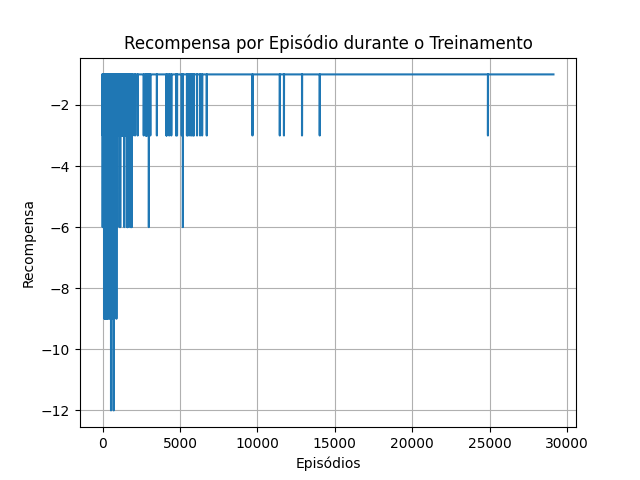
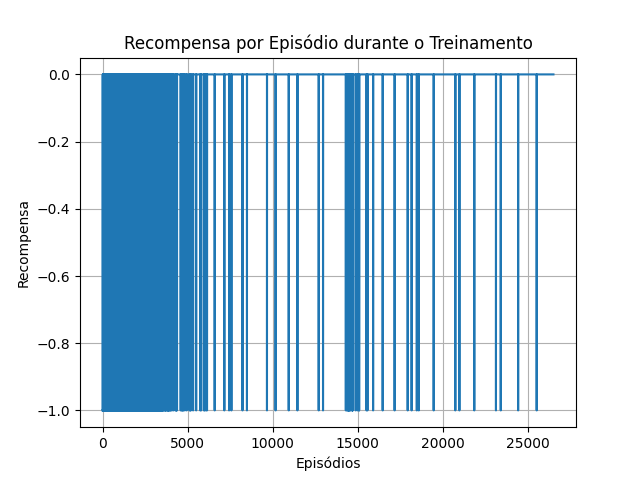
feat: modularizing env

diff --git a/truco/env.py b/truco/env.py
@@ -7,14 +7,19 @@ from truco.rules import shuffle_and_deal, get_round_winner, get_card_strength, g
 
 class TrucoEnv(gym.Env):
 
-    def __init__(self):
+    def __init__(self, mode='train'):
         super().__init__()
 
-        
-        self.observation_space = spaces.Box(low=0, high=20, shape=(8,), dtype=np.int32)
+        self.mode = mode
+        self.observation_space = spaces.Box(low=0, high=20, shape=(10,), dtype=np.int32)
         
         self.agent1_matches_won = 0
         self.agent2_matches_won = 0
+
+        self.agent1_rounds = 0
+        self.agent2_rounds = 0
+        self.agent1_score = 0
+        self.agent2_score = 0
 
         # Define the observation and action spaces: 0, 1, 2: play card; 3 = truca, 4 = pass, 5 = raise
         self.action_space = spaces.Discrete(6)
@@ -36,89 +41,69 @@ class TrucoEnv(gym.Env):
         self.truco_value = 1
         self.truco_called = False
         self.done = False
-        self.agent1_score = 0
-        self.agent2_score = 0
         self.draw = False
-        self.agent1_rounds = 0
-        self.agent2_rounds = 0
+        self.last_card_agent1 = None
+        self.last_card_agent2 = None
 
-        return self._get_observation(), {}
+        return self._get_observation(), {"round": self.rodada, "manilha": self.manilha, "your cards": self.agent2_cards, "your score": self.agent1_score, "oponent score": self.agent2_score,
+            "trucado": self.truco_called, "truco value": self.truco_value, "cards played": self.cards_played, "oponent cards played": self.oponent_cards_played, "agent_1_matches": self.agent1_matches_won, "agent_2_matches": self.agent2_matches_won,
+            "agent_1_rounds": self.agent1_rounds, "agent_2_rounds": self.agent2_rounds, "bot_cards": self.agent1_cards}
 
 
-    def step(self, action):
+    def step(self, action, player_turn=None, second_action=None):
         reward = 0
         terminated = False
         truncated = False
         info = {}
+ 
+        if self.rodada > 3:
+            terminated = True
+            self.done = True
 
-        if action == 3 and not self.truco_called:
-            self.truco_called = True
-            self.truco_value = 3
-        elif action == 4 and not self.truco_called:
+        if self.done:
+            return self._get_observation(), reward, True, truncated, info
+
+        if action == 3:
+            if self.truco_called:
+                self.truco_called = True
+                self.truco_value = 3
+            else:
+                reward = -self.truco_value
+                terminated = True
+                self.done = True
+        elif action == 4:
             reward = -self.truco_value
             terminated = True
             self.done = True
             return self._get_observation(), reward, terminated, truncated, info
-        elif action == 5 and self.truco_called and self.truco_value != 12:
-            self.truco_called = True
-            self.truco_value += 3
-        else:
-            carta_idx = action
-            if carta_idx >= len(self.agent1_cards):
-                # invalid action
-                reward = -self.truco_value
-                terminated = True
-                self.done = True
-                return self._get_observation(), reward, terminated, truncated, info
-            
-            agent1_card = self.agent1_cards.pop(carta_idx)
-            agent2_card = get_strongest_card(self.cards_strength, self.agent2_cards)
-            
-            self.cards_played.append(agent1_card)
-            self.oponent_cards_played.append(agent2_card)
-            
-            winner = get_round_winner(agent1_card, agent2_card, self.cards_strength)
-
-            if winner == 1 and not self.draw:
-                self.agent1_score += 1
-            elif winner == 2 and not self.draw:
-                self.agent2_score += 1
+        elif action == 5:
+            if self.truco_called and self.truco_value != 12:
+                self.truco_called = True
+                self.truco_value += 3
             else:
-                self.draw = True
-
-            self.rodada += 1
-
-            if self.agent1_score == 2:
-                reward = self.truco_value
-                self.agent1_rounds += 1
-                return self._get_observation(), reward, terminated, truncated, info
-            elif self.agent2_score == 2:
                 reward = -self.truco_value
-                self.agent2_rounds += 1
-                return self._get_observation(), reward, terminated, truncated, info
-            elif winner == 1 and self.draw:
-                self.agent1_rounds += 1
-                reward = self.truco_value
-                self.draw = False
-                return self._get_observation(), reward, terminated, truncated, info
-            elif winner == 2 and self.draw:
-                reward = -self.truco_value
-                self.draw = False
-                self.agent2_rounds += 1
-                return self._get_observation(), reward, terminated, truncated, info
-            
-
-            if self.agent1_rounds == 12:
-                self.agent1_matches_won += 1
-                return self._get_observation(), reward, terminated, truncated, info
-            elif self.agent2_rounds == 12:
-                self.agent2_matches_won += 1
-                return self._get_observation(), reward, terminated, truncated, info
-
-            if self.agent1_matches_won == 2 or self.agent2_matches_won == 2:
                 terminated = True
                 self.done = True
-                return self._get_observation(), reward, terminated, truncated, info
+        else:
+            if self.mode == 'train':
+                self._make_agent1_move(action)
+                agent2_card = get_strongest_card(self.cards_strength, self.agent2_cards)
+                self._make_agent2_move(agent2_card)
+                reward = self._check_round_winner()
+            elif self.mode == 'game':
+                if player_turn == 1:
+                    self._make_agent1_move(action)
+                elif player_turn == 2:
+                    self._make_agent2_move(action)
+
+                if second_action is not None:
+                    reward = self._check_round_winner()
+            
+            if self._check_end_game():
+                terminated = True
+                self.done = True
+            
+            
 
         return self._get_observation(), reward, terminated, truncated, info
             
@@ -127,13 +112,100 @@ class TrucoEnv(gym.Env):
         obs = [
             self.rodada,
             self.truco_value,
-            self.truco_value,
             int(self.truco_called),
             self.agent1_matches_won,
             self.agent2_matches_won,
             self.agent1_score,
             self.agent2_score
         ]
+        
+        for card in self.agent1_cards:
+            print(card)
+            obs.append(get_card_strength(card, self.cards_strength))
 
         return np.array(obs, dtype=np.int32)
+    
+    def _get_human_observation(self):
+        obs = {
+            "rodada": self.rodada,
+            "truco_value": self.truco_value,
+            "your cards": self.agent2_cards,
+            "trucado": self.truco_called,
+            "your score": self.agent1_score,
+            "oponent score": self.agent2_score,
+            "agent_1_matches": self.agent1_matches_won,
+            "agent_2_matches": self.agent2_matches_won,
+            "agent_1_rounds": self.agent1_rounds,
+            "agent_2_rounds": self.agent2_rounds,
+            "bot_cards": self.agent1_cards
+        }
+
+        return obs
+    
+
+    def _make_agent1_move(self, card_idx: int):
+        if card_idx >= len(self.agent1_cards):
+            return
+            # invalid action
+        agent1_card = self.agent1_cards.pop(card_idx)
             
+        self.cards_played.append(agent1_card)
+        self.last_card_agent1 = agent1_card
+
+    def _make_agent2_move(self, card_idx: str):
+        if card_idx not in self.agent2_cards:
+            return
+            # invalid action
+        agent2_card = card_idx
+        self.agent2_cards.remove(card_idx)
+            
+        self.cards_played.append(agent2_card)
+        self.last_card_agent2 = agent2_card
+
+    def _check_round_winner(self):
+        winner = get_round_winner(self.last_card_agent1, self.last_card_agent2, self.cards_strength)
+
+        
+        if winner == 1 and not self.draw:
+            self.agent1_score += 1
+        elif winner == 2 and not self.draw:
+            self.agent2_score += 1
+        else:
+            self.draw = True
+
+        self.rodada += 1
+
+        if self.agent1_score == 2:
+            self.agent1_rounds += 1
+            return self.truco_value
+        elif self.agent2_score == 2:
+            self.agent2_rounds += 1
+            return -self.truco_value
+        elif winner == 1 and self.draw:
+            self.agent1_rounds += 1
+            self.draw = False
+            return self.truco_value 
+        elif winner == 2 and self.draw:
+            self.draw = False
+            self.agent2_rounds += 1
+            return -self.truco_value
+
+        return 0
+    
+
+    def _check_end_game(self):
+        if self.agent1_rounds >= 12:
+            self.agent1_matches_won += 1
+            self.agent1_score = 0
+            self.agent2_score = 0
+            return True
+        elif self.agent2_rounds >= 12:
+            self.agent2_matches_won += 1
+            self.agent1_score = 0
+            self.agent2_score = 0
+            return True
+
+        if self.agent1_matches_won == 2 or self.agent2_matches_won == 2:
+            return True
+
+        return False

diff --git a/eval/player_vs_agent.py b/eval/player_vs_agent.py
@@ -1,28 +1,37 @@
+import random
 from truco.env import TrucoEnv
 from stable_baselines3 import PPO
 
 
 def play_game():
-    env = TrucoEnv()
     model = PPO.load("ppo_truco")
-    obs = env.reset()[0]
-    done = False
+    turn = random.randint(0, 1)
+    status = {'agent1_matches_won': 0, 'agent2_matches_won': 0, 'agent1_score': 0, 'agent2_score': 0, 'rodada': 0, 'truco_called': False, 'truco_value': 0}
+    env = TrucoEnv(mode='game')
+    while not status['agent1_matches_won'] >= 12 or not status['agent2_matches_won'] >= 12:
+        
+        obs, status = env.reset()
+        done = False
+        print("starting...")
+        while not done:
+            print(f"Actual state: {status}")
 
-    while not done:
-        print(f"Estado atual: {obs}")
+            if turn == 0:
+                action_agent = model.predict(obs, deterministic=True)[0]
+                print("Action agent:", action_agent)
+                # Passa ação do agente para o ambiente
+                obs, reward, done, truncated, info = env.step(action_agent)
+                turn = 1
+            else:
+                print("Choose your action:\n")
+                action_human = int(input("0, 1, 2 to play a card; 3 to truca; 4 to pass; 5 to raise: "))
 
-        # Jogador humano escolhe ação
-        action_human = int(input("Escolha sua ação (0, 1, 2...): "))
+                obs, reward, done, truncated, info = env.step(action_human)
+                turn = 0
+                status = env._get_human_observation()
+            if done:
+                break
 
-        # Passa a ação do humano para o ambiente
-        obs, reward, done, truncated, info = env.step(action_human)
-        if done:
-            break
-
-        # Agente escolhe ação com base na observação atual
-        action_agent = model.predict(obs, deterministic=True)[0]
-
-        # Passa ação do agente para o ambiente
-        obs, reward, done, truncated, info = env.step(action_agent)
 
     print("Fim do jogo!")
+

diff --git a/truco/rules.py b/truco/rules.py
@@ -20,7 +20,7 @@ def shuffle_and_deal():
     cards = TRUCO_CARDS[:]
     random.shuffle(TRUCO_CARDS)
     cards = random.sample(cards, 7)
-    return cards[:3], cards[3:5], cards[6], cards, CARDS_STRENGTH
+    return cards[:3], cards[3:6], cards[6], cards, CARDS_STRENGTH
 
 
 def get_card_strength(card: str, cards: dict) -> int:
